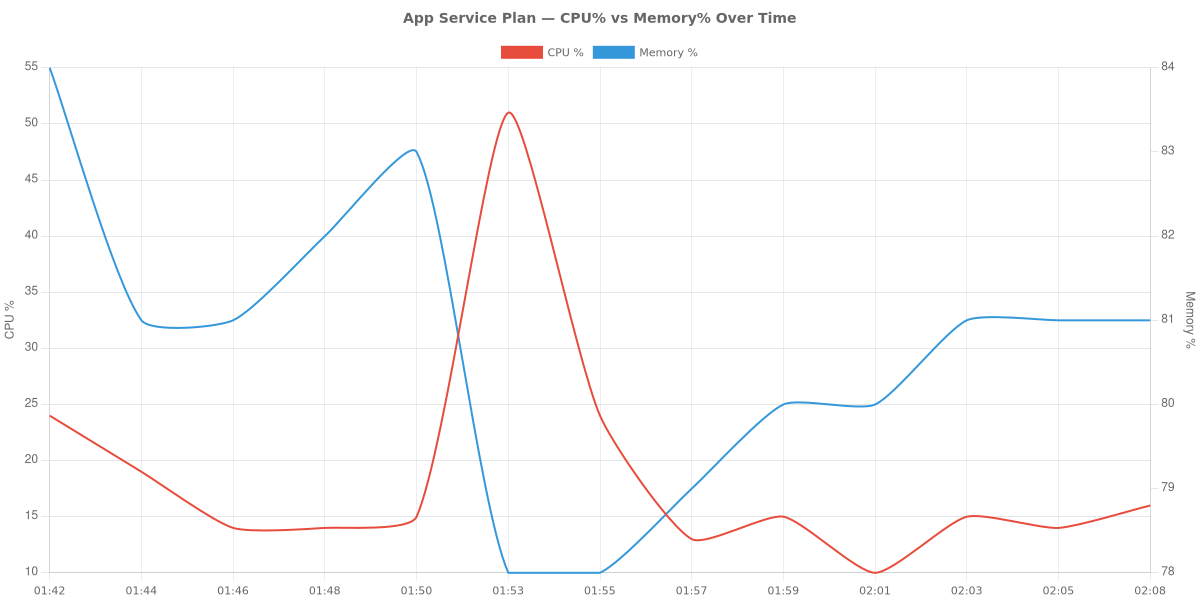
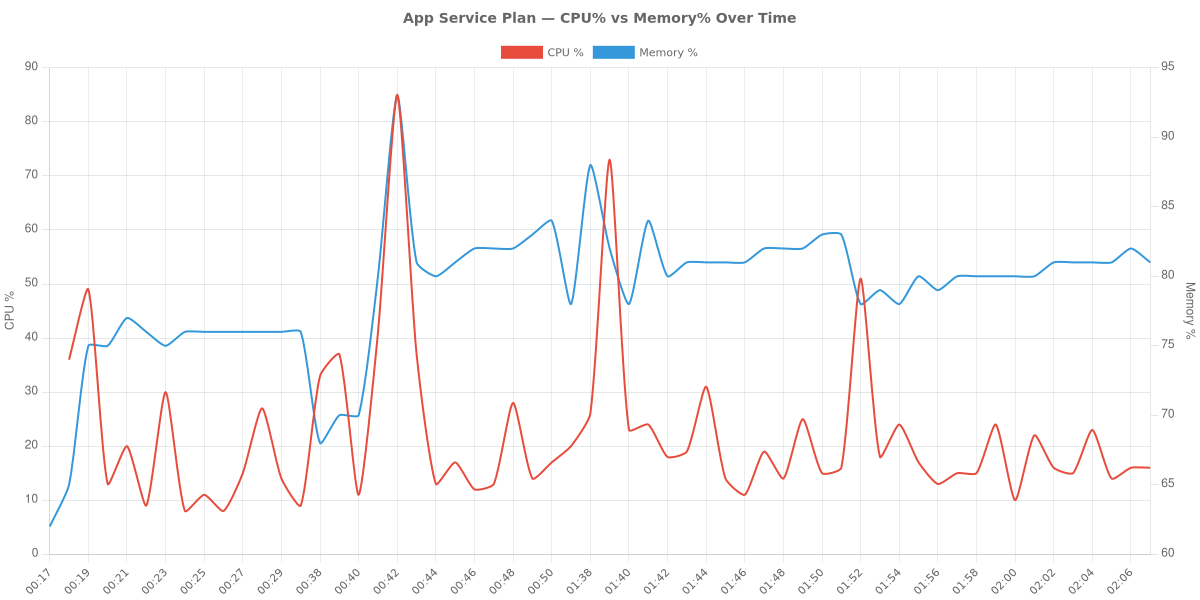
Rebuild container metrics from JSON, rewrite traffic chart with 3-line dual-axis design
- Add rebuild-container-csv.mjs: extracts full minute-level data from 27 JSON files (13 → 58 unique timestamps)
- Rewrite generateTrafficCpuTimeline() per Oracle design: 3 lines (RPM blue dashed, CPU% orange, Memory% red), dual Y-axis, tension 0
- Update figure captions in experiment-log.md/.ko.md to reflect 3-metric chart
- Regenerate all charts for both ZIP and container experiments

diff --git a/docs/experiment-log.md b/docs/experiment-log.md
@@ -89,8 +89,8 @@ Deployed 2 Node.js applications (50MB RSS each). Verified that the `/diag/proc` 
 ![Burst Latency Distribution](assets/charts/zip-deploy/burst-latency-distribution.png)
 *Figure 6: Burst traffic latency histogram.*
 
-![Traffic Volume vs CPU](assets/charts/zip-deploy/traffic-cpu-timeline.png)
-*Figure 7: Steady-state traffic volume (RPM) overlaid with CPU%. Traffic remained flat at ~6 RPM (1 req/10s × 6 apps) throughout all phases, while CPU rose from 15% to 35%+ during memory pressure — confirming the CPU increase was not driven by traffic.*
+![Traffic Volume vs CPU vs Memory](assets/charts/zip-deploy/traffic-cpu-timeline.png)
+*Figure 7: Memory pressure experiment — ZIP deploy. Request rate remained essentially flat (~6 RPM) throughout all phases, while memory utilization climbed from ~80% to ~92% and CPU increased from ~15% to 35%+ in tandem — confirming the CPU rise was driven by memory pressure, not traffic.*
 
 ---
 
@@ -147,8 +147,8 @@ An attempt to run 6 containers at 100MB each caused complete plan destabilizatio
 ![Burst Latency Distribution](assets/charts/container-deploy/burst-latency-distribution.png)
 *Figure 11: High latency variance observed during container traffic bursts.*
 
-![Traffic Volume vs CPU](assets/charts/container-deploy/traffic-cpu-timeline.png)
-*Figure 12: Steady-state traffic volume (RPM) vs CPU% for containerized deployment. Traffic remained consistently low while CPU fluctuated with memory pressure phases.*
+![Traffic Volume vs CPU vs Memory](assets/charts/container-deploy/traffic-cpu-timeline.png)
+*Figure 12: Memory pressure experiment — container deploy. Request rate remained consistently low (~12 RPM) while memory held steady at ~80% and CPU fluctuated between 10-51% during pressure phases. Note: metric cadence is sparser than ZIP deploy (~2 min intervals).*
 
 ---
 
